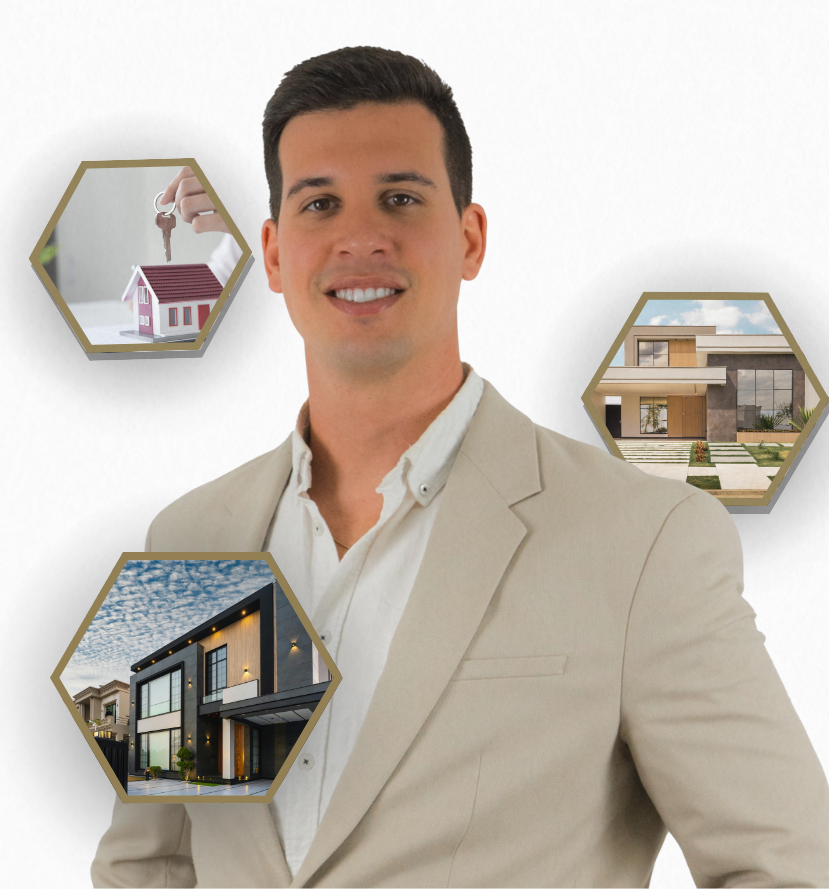
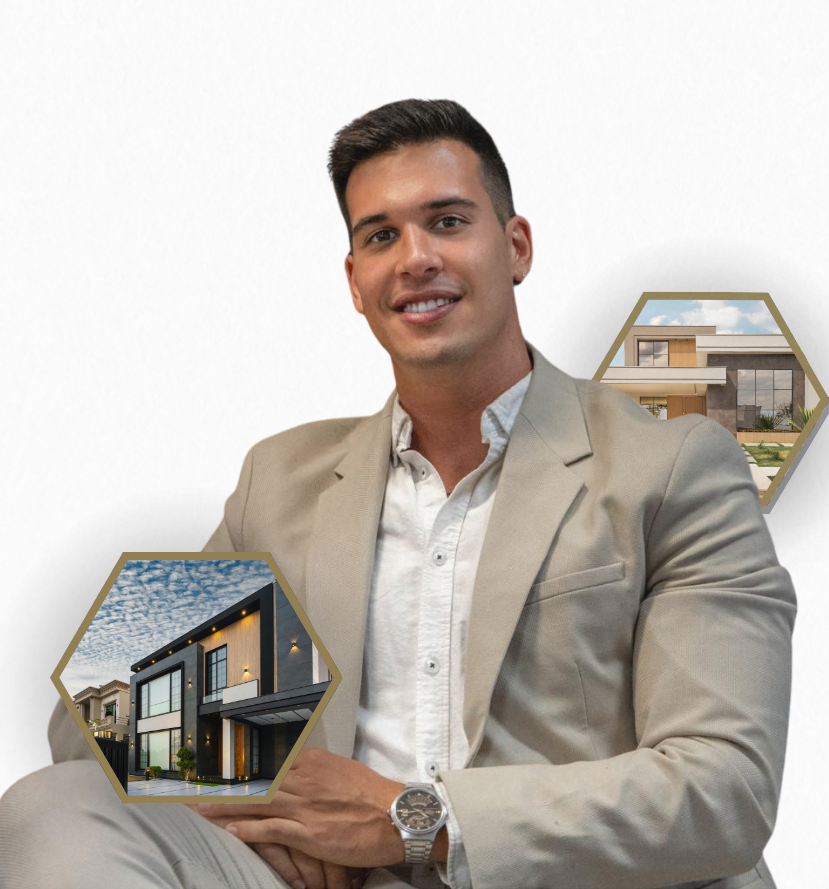
feat: integra formulário de contacto com o Formspree

diff --git a/src/components/HeroSection.tsx b/src/components/HeroSection.tsx
@@ -1,35 +1,23 @@
 import { useState, useEffect, forwardRef } from "react";
 import { Button } from "@/components/ui/button";
 import { Input } from "@/components/ui/input";
-import { Select, SelectContent, SelectItem, SelectTrigger, SelectValue } from "@/components/ui/select";
 
 // Importação das imagens locais
 import modernInteriorHero from "@/assets/modern-interior-hero.jpg";
-import miguelImage from "@/assets/miguel-pg.png"; 
+import miguelImage from "@/assets/miguel-pg2.png"; 
 import logoMiguel from "@/assets/logo-miguel.png";
 
 export const HeroSection = forwardRef<HTMLDivElement>((props, ref) => {
-  const [formData, setFormData] = useState({
-    name: "",
-    email: "",
-    phone: "",
-    propertyType: "",
-    bedrooms: "",
-    area: ""
-  });
+  // A lógica de estado para o formulário foi removida por já não ser necessária.
   const [isVisible, setIsVisible] = useState(false);
 
   useEffect(() => {
     setIsVisible(true);
   }, []);
 
-  const handleSubmit = (e: React.FormEvent) => {
-    e.preventDefault();
-    console.log("Form submitted:", formData);
-  };
+  // A função handleSubmit foi removida. O Formspree gere o envio.
 
   return (
-    // A ALTERAÇÃO ESTÁ AQUI: pt-16 alterado para pt-8 para SUBIR o conteúdo drasticamente.
     <section className="relative min-h-screen flex flex-col justify-start px-4 pt-8 pb-12 overflow-hidden">
       {/* Imagem de fundo escura com overlay */}
       <div 
@@ -48,14 +36,12 @@ export const HeroSection = forwardRef<HTMLDivElement>((props, ref) => {
             <img src={logoMiguel} alt="Logo Miguel Mónica" className="w-56 h-auto" />
           </div>
 
-          {/* Título com fundo de cor sólida e cantos retos */}
           <div className="py-4 lg:inline-block lg:py-2 lg:px-4" style={{ backgroundColor: '#8F7E53' }}>
             <h2 className="text-3xl lg:text-4xl font-bold text-white leading-tight">
               Quer Vender a Sua Casa em Tempo Recorde e pelo Melhor Valor?
             </h2>
           </div>
 
-          {/* Subtítulo em duas linhas */}
           <div className="mt-6">
             <h3 className="text-xl lg:text-2xl text-white/90 font-normal">
               Descubra quanto vale realmente o seu imóvel com uma avaliação
@@ -67,16 +53,12 @@ export const HeroSection = forwardRef<HTMLDivElement>((props, ref) => {
           
         </div>
 
-        {/* Grid responsivo: 1 coluna no mobile, 2 colunas no desktop */}
         <div className="grid grid-cols-1 lg:grid-cols-2 gap-12 lg:gap-20 items-center">
           
           {/* Coluna da Imagem */}
           <div className={`flex justify-center lg:justify-end transition-all duration-1000 delay-300 ${isVisible ? 'opacity-100' : 'opacity-0'}`}>
             <div className="relative">
               <img src={miguelImage} alt="Miguel Mónica - Consultor Imobiliário" className="relative w-full max-w-md h-auto rounded-2xl object-cover shadow-2xl" />
-              <div className="absolute -top-4 -right-4 bg-accent text-accent-foreground px-4 py-2 rounded-full text-sm font-bold shadow-lg transform rotate-12">
-                ⭐ 5.0 Rating
-              </div>
             </div>
           </div>
 
@@ -88,38 +70,61 @@ export const HeroSection = forwardRef<HTMLDivElement>((props, ref) => {
                 <p className="text-gray-600">Descubra o valor real do seu imóvel</p>
               </div>
               
-              <form onSubmit={handleSubmit} className="space-y-4">
+              {/* O FORMULÁRIO FOI ATUALIZADO PARA O FORMSPREE */}
+              <form 
+                action="https://formspree.io/f/xyzpjqog"
+                method="POST"
+                className="space-y-4"
+              >
+                {/* Cada campo agora tem um atributo 'name' para o Formspree */}
+                <Input 
+                  type="text" 
+                  name="Nome"
+                  placeholder="Nome completo *" 
+                  className="form-input-enhanced" 
+                  required 
+                />
+                <Input 
+                  type="email" 
+                  name="Email"
+                  placeholder="Email *" 
+                  className="form-input-enhanced" 
+                  required 
+                />
+                <Input 
+                  type="tel" 
+                  name="Telefone"
+                  placeholder="Telefone *" 
+                  className="form-input-enhanced" 
+                  required 
+                />
                 
-                <Input type="text" placeholder="Nome completo *" value={formData.name} onChange={e => setFormData({ ...formData, name: e.target.value })} className="form-input-enhanced" required />
-                <Input type="email" placeholder="Email *" value={formData.email} onChange={e => setFormData({ ...formData, email: e.target.value })} className="form-input-enhanced" required />
-                <Input type="tel" placeholder="Telefone *" value={formData.phone} onChange={e => setFormData({ ...formData, phone: e.target.value })} className="form-input-enhanced" required />
-                
-                <Select onValueChange={value => setFormData({ ...formData, propertyType: value })}>
-                  <SelectTrigger className="form-input-enhanced text-gray-700"><SelectValue placeholder="Tipo de Imóvel *" /></SelectTrigger>
-                  <SelectContent>
-                    <SelectItem value="apartamento">Apartamento</SelectItem>
-                    <SelectItem value="moradia">Moradia</SelectItem>
-                    <SelectItem value="terreno">Terreno</SelectItem>
-                    <SelectItem value="comercial">Comercial</SelectItem>
-                  </SelectContent>
-                </Select>
+                {/* Os campos Select foram simplificados para garantir a entrega dos dados */}
+                <Input 
+                  type="text" 
+                  name="Tipo de Imóvel" 
+                  placeholder="Tipo de Imóvel (ex: Apartamento, Moradia)" 
+                  className="form-input-enhanced"
+                />
                 
                 <div className="grid grid-cols-2 gap-4">
-                  <Select onValueChange={value => setFormData({ ...formData, bedrooms: value })}>
-                    <SelectTrigger className="form-input-enhanced text-gray-700"><SelectValue placeholder="Quartos" /></SelectTrigger>
-                    <SelectContent>
-                      <SelectItem value="0">T0</SelectItem>
-                      <SelectItem value="1">T1</SelectItem>
-                      <SelectItem value="2">T2</SelectItem>
-                      <SelectItem value="3">T3</SelectItem>
-                      <SelectItem value="4">T4</SelectItem>
-                      <SelectItem value="5+">T5+</SelectItem>
-                    </SelectContent>
-                  </Select>
-                  <Input type="number" placeholder="Área (m²)" value={formData.area} onChange={e => setFormData({ ...formData, area: e.target.value })} className="form-input-enhanced" />
+                  <Input 
+                    type="text"
+                    name="Quartos"
+                    placeholder="Quartos (ex: T3)"
+                    className="form-input-enhanced"
+                  />
+                  <Input 
+                    type="number" 
+                    name="Área (m²)"
+                    placeholder="Área (m²)" 
+                    className="form-input-enhanced"
+                  />
                 </div>
 
-                <Button type="submit" className="btn-cta w-full text-lg font-bold">🏠 Obter Avaliação Grátis</Button>
+                <Button type="submit" className="btn-cta w-full text-lg font-bold">
+                  🏠 Obter Avaliação Grátis
+                </Button>
                 
                 <div className="text-center pt-2">
                   <p className="text-xs text-gray-500 mb-2">🔒 Os seus dados estão seguros. Respeitamos a sua privacidade.</p>

diff --git a/vite.config.ts b/vite.config.ts
@@ -10,7 +10,7 @@ export default defineConfig(({ mode }) => ({
     port: 8080,
   },
   // ADICIONE A LINHA "base" ABAIXO:
-  base: "/casa-famalic/", 
+  base: '/', 
   plugins: [
     react(),
     mode === 'development' &&
